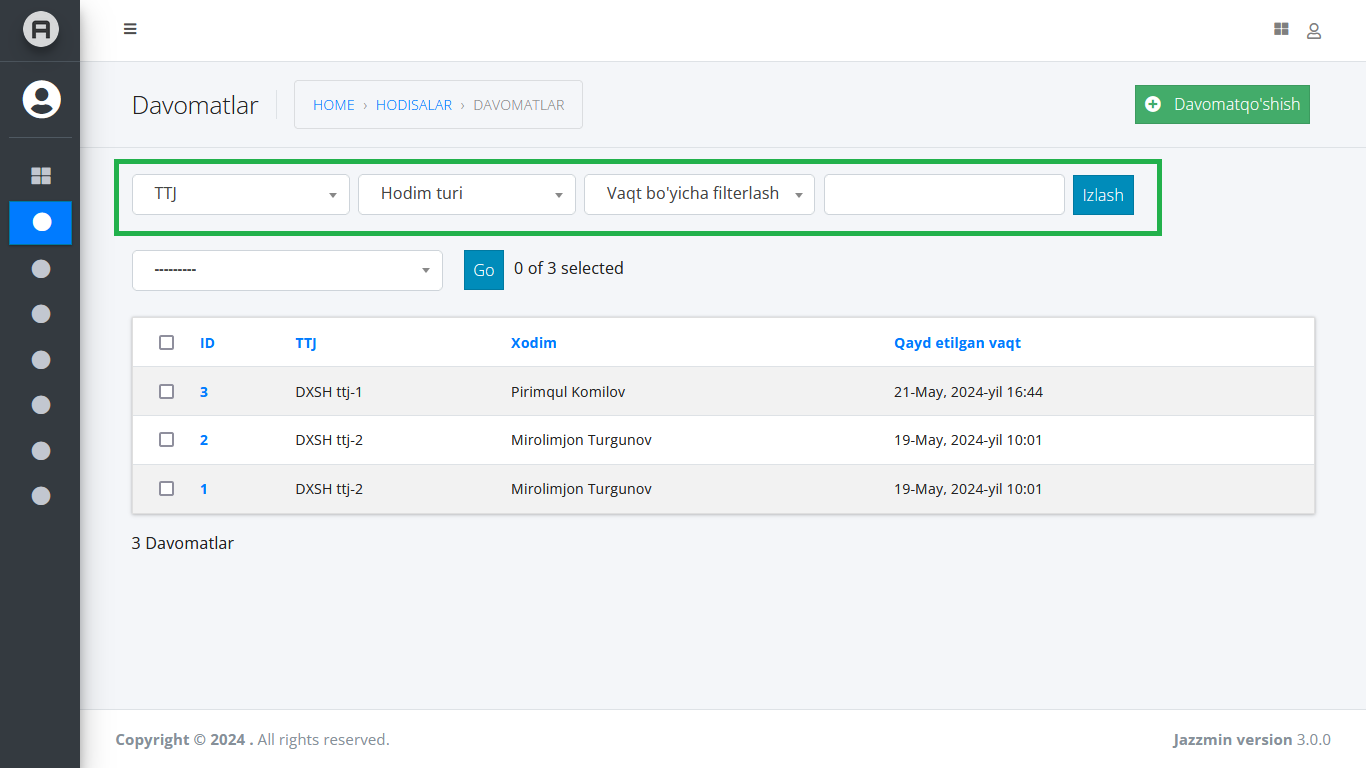
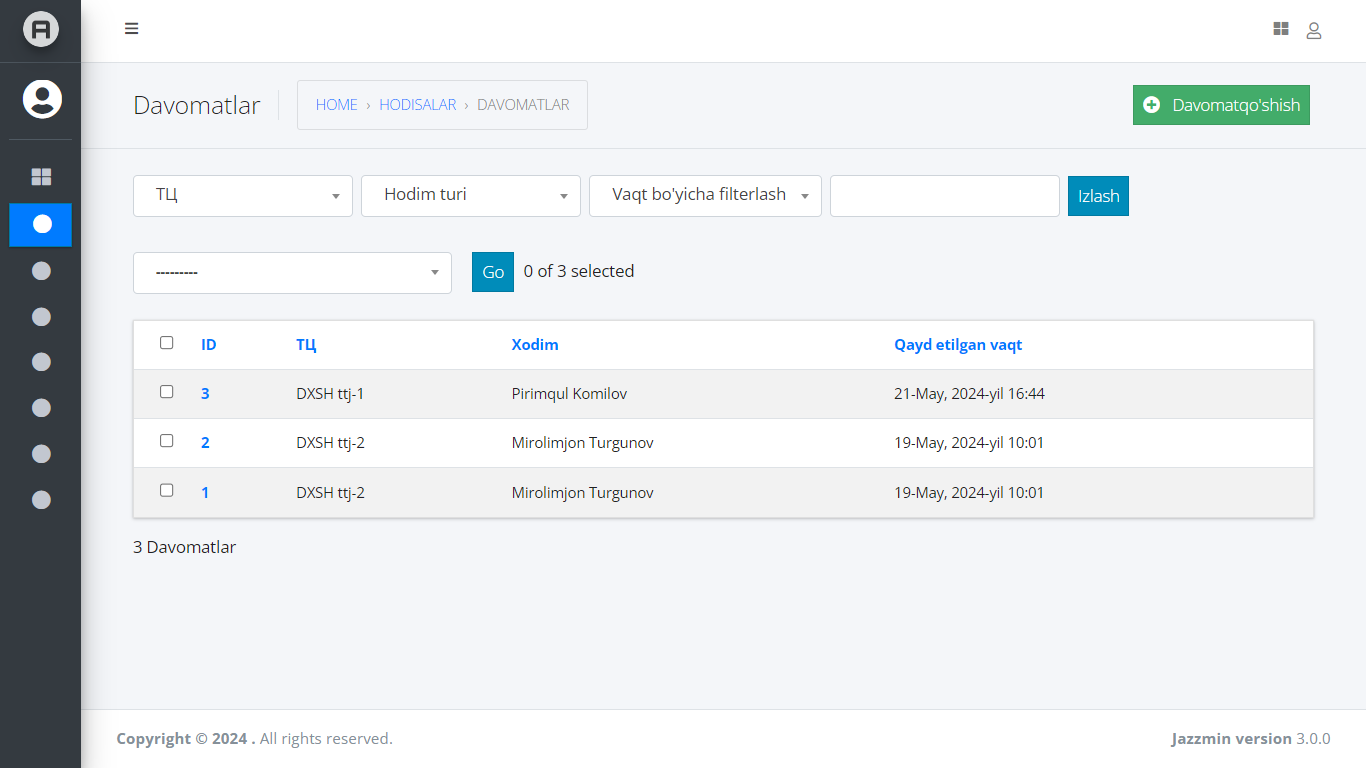
big changes made

diff --git a/templates/demo/finance.html b/templates/demo/finance.html
@@ -1,6 +1,12 @@
 
 {% extends "base.html" %}
 {% load static %}
+{% block mobile_navbar %}
+    <li><a href="{% url "home" %}">Home</a></li>
+    <li><a href="{% url "actions" %}">Hodisalar</a></li>
+    <li class="active"><a href="{% url "finance" %}">Moliya</a></li>
+    <li><a href="{% url "staffs" %}">Xodimlar</a></li>
+{% endblock mobile_navbar %}
 {% block navbar %}
     <li><a href="{% url "home" %}">Home</a></li>
     <li><a href="{% url "actions" %}">Hodisalar</a></li>
@@ -19,7 +25,7 @@
                 </div>
             </div>
         </div>
-        <img src="{% static 'img/demo/finance.png' %}" alt="">
+        <img src="{% static 'img/demo/economy.png' %}" alt="">
     </div>
     {% comment %} <section class="blog-details-hero set-bg" data-setbg="{% static 'img/demo/events.png' %}">   
     </section> {% endcomment %}
@@ -40,22 +46,22 @@
                                 <h4>Xodimlarning Oylik maosh to'lovlari</h4>
                                 <img src="{% static 'img/demo/salary_payment.png' %}" alt="">
                                 <p>Ushbu qismda hodimlarning to'langan oyliklari qayd etib boriladi. Xodimlarning to'langan maoshlari quyidagi ma'lumotlar asosida ekranda aks etadi: <b>Xodimning ism va familyasi</b>, 
-                                    <b>Xodim ishlaydigan TTJ nomi, Xodimning roli(turi), Xodimning maoshi, To'langan summaning miqdori</b> va albatta <b>Maosh to'lab berilgan vaqt</b> dan foydalaniladi.</p>
-                                <p>Qolaversa bu qismda malumotlarni saralash uchun kengaytirilgan filterlar qo'shilgan. Ular quyidagilar: <b>TTJ orqali filterlash</b>, 
+                                    <b>Xodim ishlaydigan ТЦ(торговый центр) nomi, Xodimning roli(turi), Xodimning maoshi, To'langan summaning miqdori</b> va albatta <b>Maosh to'lab berilgan vaqt</b> dan foydalaniladi.</p>
+                                <p>Qolaversa bu qismda malumotlarni saralash uchun kengaytirilgan filterlar qo'shilgan. Ular quyidagilar: <b>ТЦ(торговый центр) orqali filterlash</b>, 
                                     <b>Hodim turi orqali filterlash</b> va albatta <b>Xodimning ishlayotganlik statusi</b></p>
                             </div>
                             <div class="bm-item">
                                 <h4>Jarimalar haqida batafsil</h4>
-                                <img src="{% static 'img/demo/penalty.png' %}" alt="">
+                                <img src="{% static 'img/demo/penalties.png' %}" alt="">
                                 <p>Ushbu qism xodimlarga tayinlangan jarimlarni qayd etib borish va kezi kelganda ma'lum bir tayinlangan jarimani filter va qidiruv tizimlari orqali osonlik bilan topib berish uchun javobgar. 
-                                    Ushbu bo'limdagi filterlar quyadiglardan iborat: <b>TTJ</b> bo'yicha filterlash, <b>Xodim turi(ro'li)</b> bo'yicha filterlash, <b>Xodimning ishlayotganlik statusi</b> bo'yicha filterlash
+                                    Ushbu bo'limdagi filterlar quyadiglardan iborat: <b>ТЦ(торговый центр)</b> bo'yicha filterlash, <b>Xodim turi(ro'li)</b> bo'yicha filterlash, <b>Xodimning ishlayotganlik statusi</b> bo'yicha filterlash
                                 </p>
                             </div>
                             <div class="bm-item">
                                 <h4>KPI lar haqida batafsil</h4>
                                 <img src="{% static 'img/demo/kpi.png' %}" alt="">
                                 <p>Ushbu qism xodimlarga tayinlangan KPI larni qayd etib borish va kezi kelganda ma'lum bir tayinlangan KPI ni filter va qidiruv tizimlari orqali osonlik bilan topib berish uchun javobgar. 
-                                    Ushbu bo'limdagi filterlar quyadiglardan iborat: <b>TTJ</b> bo'yicha filterlash, <b>Xodim turi(ro'li)</b> bo'yicha filterlash, <b>Xodimning ishlayotganlik statusi</b> bo'yicha filterlash
+                                    Ushbu bo'limdagi filterlar quyadiglardan iborat: <b>ТЦ(торговый центр)</b> bo'yicha filterlash, <b>Xodim turi(ro'li)</b> bo'yicha filterlash, <b>Xodimning ishlayotganlik statusi</b> bo'yicha filterlash
                                 </p>
                             </div>
                         </div>

diff --git a/templates/demo/staffs.html b/templates/demo/staffs.html
@@ -1,13 +1,19 @@
 
 {% extends "base.html" %}
 {% load static %}
+{% block mobile_navbar %}
+    <li><a href="{% url "home" %}">Home</a></li>
+    <li><a href="{% url "actions" %}">Hodisalar</a></li>
+    <li><a href="{% url "finance" %}">Moliya</a></li>
+    <li class="active"><a href="{% url "staffs" %}">Xodimlar</a></li>
+{% endblock mobile_navbar %}
 
 {% block navbar %}
     <li><a href="{% url "home" %}">Home</a></li>
     <li><a href="{% url "actions" %}">Hodisalar</a></li>
     <li><a href="{% url "finance" %}">Moliya</a></li>
-    <li class="active"><a href="{% url "staffs" %}">Xodimlar</a></li>{% endblock navbar %}
-
+    <li class="active"><a href="{% url "staffs" %}">Xodimlar</a></li>
+{% endblock navbar %}
 {% block content %}
 <!-- Header End -->
 
@@ -20,7 +26,7 @@
                 </div>
             </div>
         </div>
-        <img src="{% static 'img/demo/staffs.png' %}" alt="">
+        <img src="{% static 'img/demo/staff.png' %}" alt="">
     </div>
     {% comment %} <section class="blog-details-hero set-bg" data-setbg="{% static 'img/demo/events.png' %}">   
     </section> {% endcomment %}
@@ -38,16 +44,16 @@
                         </div>
                         <div class="bd-more-text">
                             <div class="bm-item">
-                                <h4>TTJ</h4>
-                                <img src="{% static 'img/demo/salary_payment.png' %}" alt="">
-                                <p>Ushbu qismda Biznes egasi tegishli bo'lgan ttj lar qayd etib boriladi. TTJ larning ro'yxati hakillantirilish jarayonida quyidagi ma'lumotlardan foydalaniladi.
-                                    <b>TTJ nomi, TTJ biriktirilgan universitet nomi, TTJ joylashgan manzil</b> va albatta <b>TTJ dasturga qo'shilgan vaqt</b> dan foydalaniladi.</p>
+                                <h4>Торговый Центр</h4>
+                                <img src="{% static 'img/demo/ttj.png' %}" alt="">
+                                <p>Ushbu qismda Biznes egasi tegishli bo'lgan ТЦ lar qayd etib boriladi. ТЦ larning ro'yxati hakillantirilish jarayonida quyidagi ma'lumotlardan foydalaniladi.
+                                    <b>ТЦ nomi, ТЦ biriktirilgan universitet nomi, ТЦ joylashgan manzil</b> va albatta <b>ТЦ dasturga qo'shilgan vaqt</b> dan foydalaniladi.</p>
                             </div>
                             <div class="bm-item">
                                 <h4>Xodimlar haqida  batafsil</h4>
-                                <img src="{% static 'img/demo/staffs_model.png' %}" alt="">
+                                <img src="{% static 'img/demo/staffs.png' %}" alt="">
                                 <p>Ushbu qism xodimlar haqidagi ma'lumotlar qayd etib borish va kezi kelganda ma'lum bir tayinlangan jarimani filter va qidiruv tizimlari orqali osonlik bilan topib berish uchun javobgar. 
-                                    Ushbu bo'limdagi filterlar quyadiglardan iborat: <b>TTJ</b> bo'yicha filterlash, <b>Xodim turi(ro'li)</b> bo'yicha filterlash, <b>Xodimning ishlayotganlik statusi</b> bo'yicha filterlash
+                                    Ushbu bo'limdagi filterlar quyadiglardan iborat: <b>ТЦ</b> bo'yicha filterlash, <b>Xodim turi(ro'li)</b> bo'yicha filterlash, <b>Xodimning ishlayotganlik statusi</b> bo'yicha filterlash
                                 </p>
                             </div>
                         </div>

diff --git a/templates/base.html b/templates/base.html
@@ -34,40 +34,32 @@
  
     {% block header %}
         <!-- Header Section Begin -->
-        <header class="header-section">
-            {% comment %} <div class="top-nav">
-                <div class="container">
-                    <div class="row">
-                        <div class="col-lg-6">
-                            <ul class="tn-left">
-                                <li><i class="fa fa-phone"></i> (12) 345 67890</li>
-                                <li><i class="fa fa-envelope"></i> info.colorlib@gmail.com</li>
-                            </ul>
-                        </div>
-                        <div class="col-lg-6">
-                            <div class="tn-right">
-                                <div class="top-social">
-                                    <a href="#"><i class="fa fa-facebook"></i></a>
-                                    <a href="#"><i class="fa fa-twitter"></i></a>
-                                    <a href="#"><i class="fa fa-tripadvisor"></i></a>
-                                    <a href="#"><i class="fa fa-instagram"></i></a>
-                                </div>
-                                <a href="#" class="bk-btn">Booking Now</a>
-                                <div class="language-option">
-                                    <img src="{% static 'img/flag.jpg' %}" alt="">
-                                    <span>EN <i class="fa fa-angle-down"></i></span>
-                                    <div class="flag-dropdown">
-                                        <ul>
-                                            <li><a href="#">Zi</a></li>
-                                            <li><a href="#">Fr</a></li>
-                                        </ul>
-                                    </div>
-                                </div>
-                            </div>
-                        </div>
-                    </div>
+            <!-- Offcanvas Menu Section Begin -->
+            <div class="offcanvas-menu-overlay"></div>
+            <div class="canvas-open">
+                <i class="fa-solid fa-bars"></i>
+            </div>
+            <div class="offcanvas-menu-wrapper">
+                <div class="canvas-close">
+                    <i class="fa-solid fa-xmark"></i>
                 </div>
-            </div> {% endcomment %}
+                <nav class="mainmenu mobile-menu">
+                    <ul>
+                        {% block mobile_navbar %}
+                            <li class="active"><a href="{% url "home" %}">Home</a></li>
+                            <li><a href="{% url "actions" %}">Hodisalar</a></li>
+                            <li><a href="{% url "finance" %}">Moliya</a></li>
+                            <li><a href="{% url "staffs" %}">Xodimlar</a></li>
+                        {% endblock mobile_navbar %}
+                    </ul>
+                </nav>
+                <div id="mobile-menu-wrap"></div>
+
+            </div>
+            <!-- Offcanvas Menu Section End -->
+        
+        <header class="header-section">
+
             <div class="menu-item">
                 <div class="container">
                     <div class="row">

diff --git a/templates/demo/events.html b/templates/demo/events.html
@@ -1,6 +1,12 @@
 
 {% extends "base.html" %}
 {% load static %}
+{% block mobile_navbar %}
+    <li><a href="{% url "home" %}">Home</a></li>
+    <li class="active"><a href="{% url "actions" %}">Hodisalar</a></li>
+    <li><a href="{% url "finance" %}">Moliya</a></li>
+    <li><a href="{% url "staffs" %}">Xodimlar</a></li>
+{% endblock mobile_navbar %}
 {% block navbar %}
     <li><a href="{% url "home" %}">Home</a></li>
     <li class="active"><a href="{% url "actions" %}">Hodisalar</a></li>
@@ -19,7 +25,7 @@
                 </div>
             </div>
         </div>
-        <img src="{% static 'img/demo/actions.png' %}" alt="">
+        <img src="{% static 'img/demo/events.png' %}" alt="">
     </div>
     {% comment %} <section class="blog-details-hero set-bg" data-setbg="{% static 'img/demo/events.png' %}">   
     </section> {% endcomment %}
@@ -39,16 +45,16 @@
                             <div class="bm-item">
                                 <h4>Davomatlar qismi haqida batafsil</h4>
                                 <img src="{% static 'img/demo/attandance.png' %}" alt="">
-                                <p>Davomat bo'limida barcha xodimlarning davomatlari qayd etilib boriladi. Davomatlarni ro'yhatini ko'rsatishda <b>Davomat olingan TTJ nomi</b>, 
+                                <p>Davomat bo'limida barcha xodimlarning davomatlari qayd etilib boriladi. Davomatlarni ro'yhatini ko'rsatishda <b>Davomat olingan ТЦ(торговый центр) nomi</b>, 
                                     <b>Hodimning ism va familyasi</b> va albatta <b>Davomat qayd etilgan vaqt</b> dan foydalaniladi.</p>
-                                <p>Qolaversa bu qismda malumotlarni saralash uchun kengaytirilgan filterlar qo'shilgan. Ular quyidagilar: <b>TTJ orqali filterlash</b>, 
+                                <p>Qolaversa bu qismda malumotlarni saralash uchun kengaytirilgan filterlar qo'shilgan. Ular quyidagilar: <b>ТЦ(торговый центр) orqali filterlash</b>, 
                                     <b>Hodim turi orqali filterlash</b> va albatta <b>Vaqt bo'yicha filterlash</b></p>
                             </div>
                             <div class="bm-item">
                                 <h4>Ishdan bo'shagan xodimlar haqida batafsil</h4>
-                                <img src="{% static 'img/demo/staff_leaving.png' %}" alt="">
+                                <img src="{% static 'img/demo/left_staff.png' %}" alt="">
                                 <p>Ushbu qism ishdan bo'shagan xodimlar haqida ma'lumotlar uchun javobgar. Yashil rangli to'rtburchak ichida filterlash imkoniyatlrini ko'rishingi mumkun.
-                                    Ular quyadiglardan iborat: <b>TTJ</b> bo'yicha filterlash, <b>Xodimning Jinsi(ayol, erkak)</b> bo'yicha filterlash va <b>Xodim turi(ro'li)</b> bo'yicha filterlash
+                                    Ular quyadiglardan iborat: <b>ТЦ(торговый центр)</b> bo'yicha filterlash, <b>Xodimning Jinsi(ayol, erkak)</b> bo'yicha filterlash va <b>Xodim turi(ro'li)</b> bo'yicha filterlash
                                 </p>
                             </div>
                         </div>

diff --git a/templates/demo/index.html b/templates/demo/index.html
@@ -12,8 +12,7 @@
             <div class="row">
                 <div class="col-lg-6">
                     <div class="hero-text">
-                        <h1>Talabalar Turar Joylari</h1>
-                        <p>Talabalar Turar joylarining Hodimlarini boshqaruv tizimi</p>
+                        <h1>Hodimlarni boshqaruv tizimi</h1>
                         <a href="#" class="primary-btn">Admin panelni ko'rish</a>
                     </div>
                 </div>
@@ -36,7 +35,7 @@
                     <div class="about-text">
                         <div class="section-title">
                             <span>Dastur haqida qisqacha</span>
-                            <h2>TTJ larning Hodimlarini boshqaruv tizimi</h2>
+                            <h2>Hodimlarni boshqaruv tizimi</h2>
                         </div>
                         <p class="f-para">Ushbu dastur Talabalar turar joylarining hodimlarini boshqarish uchun maxsus yaratilgan</p>
                     </div>
@@ -45,7 +44,7 @@
                     <div class="about-pic">
                         <div class="row">
                             <div class="col-sm-12">
-                                <img src="{% static 'img/demo/demo-main.jpg' %}" alt="">
+                                <img src="{% static 'img/demo/demo_main.png' %}" alt="">
                             </div>
                         </div>
                     </div>
@@ -78,7 +77,7 @@
                     <div class="service-item">
                         <i class="icon fa-regular fa-calendar-check"></i>
                         <h4>Xodimlar davomati</h4>
-                        <p>Barcha TTJ lar bo'yicha xodimlar davomatlarini bilib turish imkonini beradi.</p>
+                        <p>Barcha ТЦ(торговый центр) lar bo'yicha xodimlar davomatlarini bilib turish imkonini beradi.</p>
                     </div>
                 </div>
                 <div class="col-lg-4 col-sm-6">

diff --git a/staffs/models.py b/staffs/models.py
@@ -6,8 +6,8 @@ from config.mainvalidators import validate_file
 # Create your models here.
 class Ttj(models.Model):
     class Meta:
-        verbose_name =  "Talabalar turar joyi"
-        verbose_name_plural = "Talabalar turar joylari"
+        verbose_name =  "торговые центр"
+        verbose_name_plural = "торговые центры"
     name = models.CharField(max_length=250, unique=True, verbose_name='Nomi')
     university = models.CharField(max_length=250, verbose_name="Universitet")
     address = models.CharField(max_length=250, verbose_name="Mazili")
@@ -24,7 +24,7 @@ class Staff(CustomUser):
     passport = models.FileField(upload_to="Staff/passport", verbose_name="Passport nusxasi")
     salary = models.DecimalField(max_digits=15, decimal_places=2, default=0, verbose_name="Maosh", help_text="UZS da kiritilsin")
     image = models.ImageField(upload_to="Staff/image3x4", verbose_name="rasm", help_text="3X4 rasm yuklansin")
-    ttj_id = models.ForeignKey(Ttj, on_delete=models.CASCADE, verbose_name="TTJ", null=True)
+    ttj_id = models.ForeignKey(Ttj, on_delete=models.CASCADE, verbose_name="ТЦ", null=True)
     ROLE_CHOICES = (
         (1, "Mudir"),
         (2, "Tarbiyachi"),

diff --git a/staffs/migrations/0004_alter_ttj_options_alter_staff_ttj_id.py b/staffs/migrations/0004_alter_ttj_options_alter_staff_ttj_id.py
@@ -1,0 +1,23 @@
+# Generated by Django 4.2.13 on 2024-05-24 12:24
+
+from django.db import migrations, models
+import django.db.models.deletion
+
+
+class Migration(migrations.Migration):
+
+    dependencies = [
+        ('staffs', '0003_alter_staff_salary'),
+    ]
+
+    operations = [
+        migrations.AlterModelOptions(
+            name='ttj',
+            options={'verbose_name': 'торговые центр', 'verbose_name_plural': 'торговые центры'},
+        ),
+        migrations.AlterField(
+            model_name='staff',
+            name='ttj_id',
+            field=models.ForeignKey(null=True, on_delete=django.db.models.deletion.CASCADE, to='staffs.ttj', verbose_name='ТЦ'),
+        ),
+    ]

diff --git a/actions/migrations/0006_alter_attandance_ttj_id.py b/actions/migrations/0006_alter_attandance_ttj_id.py
@@ -1,0 +1,20 @@
+# Generated by Django 4.2.13 on 2024-05-24 12:24
+
+from django.db import migrations, models
+import django.db.models.deletion
+
+
+class Migration(migrations.Migration):
+
+    dependencies = [
+        ('staffs', '0004_alter_ttj_options_alter_staff_ttj_id'),
+        ('actions', '0005_attandance'),
+    ]
+
+    operations = [
+        migrations.AlterField(
+            model_name='attandance',
+            name='ttj_id',
+            field=models.ForeignKey(on_delete=django.db.models.deletion.CASCADE, to='staffs.ttj', verbose_name='ТЦ'),
+        ),
+    ]

diff --git a/finance/admin.py b/finance/admin.py
@@ -29,7 +29,7 @@ class KPIAdmin(admin.ModelAdmin):
 
     def get_ttj_id(self, obj):
         return obj.staff_id.ttj_id
-    get_ttj_id.short_description = 'TTJ'
+    get_ttj_id.short_description = 'ТЦ'
 
     def get_role(self, obj):
         return obj.staff_id.get_role_display()
@@ -48,7 +48,7 @@ class PenaltyAdmin(admin.ModelAdmin):
 
     def get_ttj_id(self, obj):
         return obj.staff_id.ttj_id
-    get_ttj_id.short_description = 'TTJ'
+    get_ttj_id.short_description = 'ТЦ'
 
     def get_role(self, obj):
         return obj.staff_id.get_role_display()

diff --git a/actions/models.py b/actions/models.py
@@ -20,7 +20,7 @@ class Attandance(models.Model):
     class Meta:
         verbose_name = "Davomat"
         verbose_name_plural = "Davomatlar"
-    ttj_id = models.ForeignKey(Ttj, on_delete=models.CASCADE, verbose_name="TTJ")
+    ttj_id = models.ForeignKey(Ttj, on_delete=models.CASCADE, verbose_name="ТЦ")
     staff_id = models.ForeignKey(Staff, on_delete=models.CASCADE, verbose_name="Xodim")
     tracked_at = models.DateTimeField(auto_now_add=True, verbose_name="Qayd etilgan vaqt")
 

diff --git a/actions/admin.py b/actions/admin.py
@@ -11,7 +11,7 @@ class StaffLeavingAdmin(admin.ModelAdmin):
 
     def get_ttj_id(self, obj):
         return obj.staff_id.ttj_id
-    get_ttj_id.short_description = 'TTJ'
+    get_ttj_id.short_description = 'ТЦ'
 
     def get_staff_role(self, obj):
         return obj.staff_id.display_role()
